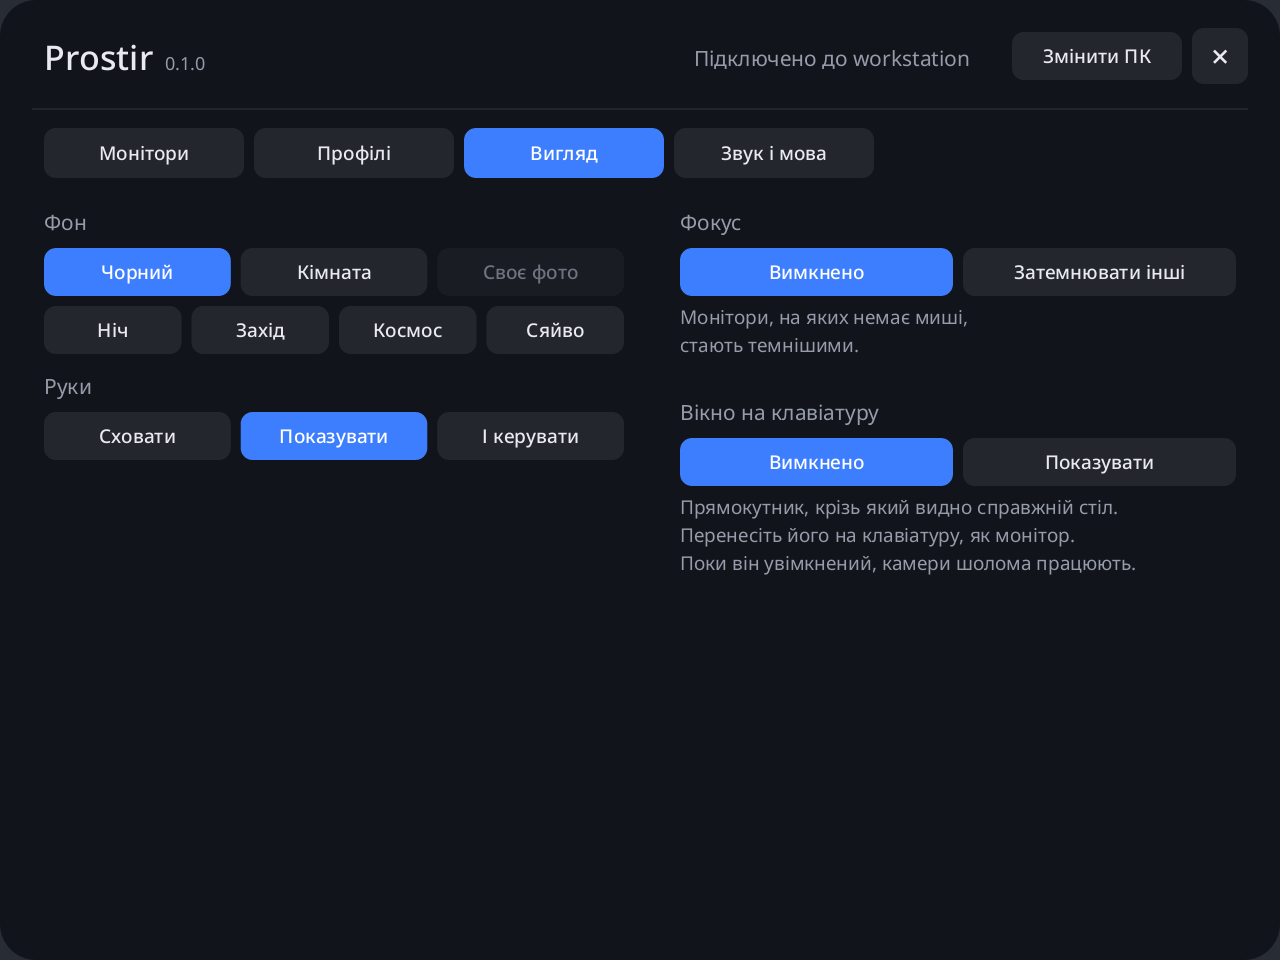
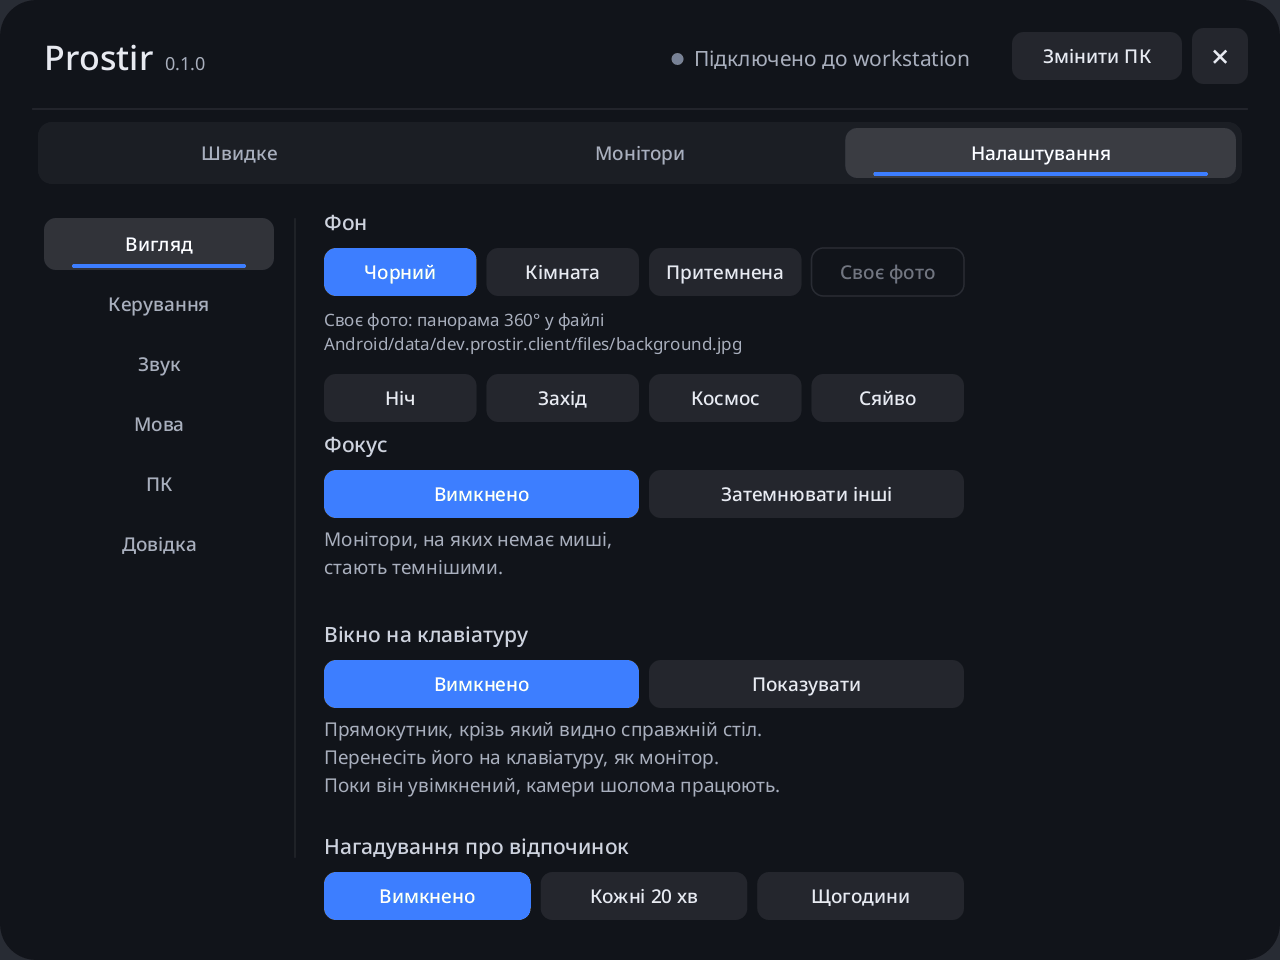
README: підключення кабелем, нове меню, відкріплені вікна, зап'ястя, миша, сповіщення
- окремий розділ «Connect with a USB cable»: режим розробника, adb,
  дозвіл налагодження, adb devices, як ПК сам робить adb reverse, що
  буває з unauthorized, --no-adb, зарядка під час роботи від кабелю
- «What it does»: відкріплені вікна, «вікно сюди», знімки, слідом за
  головою, миша за поглядом, меню на зап'ясті, сповіщення, нагадування
- керування: смужка під монітором, меню на зап'ясті, лівша
- меню описано за новою структурою (Швидке / Монітори / Налаштування з
  розділами); трей із зарядом шолома
- продуктивність: пам'ять ПК для HEVC і H.264 на Intel, простій, CPU
  шолома, 72 Hz; безпека: що саме йде зі сповіщеннями
- нові скріншоти меню англійською й українською

diff --git a/README.md b/README.md
@@ -51,12 +51,12 @@ hit one.
 
 <table>
   <tr>
-    <td><img src="docs/menu-monitors.png" alt="Menu, Monitors tab: monitor list, add a monitor, layout, curve and mode"></td>
-    <td><img src="docs/menu-profiles.png" alt="Menu, Profiles tab: Work, Cinema and Lying down"></td>
+    <td><img src="docs/menu-quick.png" alt="Menu, Quick tab: profiles and tiles for focus, cinema, PC sound, microphone, detaching a window and a screenshot"></td>
+    <td><img src="docs/menu-monitors.png" alt="Menu, Monitors tab: monitor list with where each stands, adding a monitor, layout, curve, mode and follow my head"></td>
   </tr>
   <tr>
-    <td><img src="docs/menu-look.png" alt="Menu, Look tab: background, hands and focus"></td>
-    <td><img src="docs/menu-sound.png" alt="Menu, Sound and language tab"></td>
+    <td><img src="docs/menu-look.png" alt="Menu, Settings, Look: background, focus, keyboard window and rest reminders"></td>
+    <td><img src="docs/menu-pc.png" alt="Menu, Settings, PC: video quality, encoder, codec, sharper text, notifications and paired PCs"></td>
   </tr>
 </table>
 
@@ -85,7 +85,7 @@ you close the lid.
 
 Profiles switch the whole setup at once. Out of the box there is "Work" (three 1440p
 monitors and the laptop screen), "Cinema" (one 4K screen, big and far away, the rest
-hidden) and "Lying down" (two monitors overhead). Save your own setup into any of them.
+hidden) and "Lying down" (two monitors overhead). Save your own setup into any of them (Monitors → Save as profile).
 Monitors that are the same size in both profiles stay, so their windows do not move.
 In cinema mode you pick which monitor becomes the big screen.
 
@@ -93,7 +93,7 @@ Focus mode dims every monitor except the one with the mouse.
 
 PC sound plays in the headset, and the headset microphone becomes the PC's microphone.
 The headset only records while some app on the PC is actually listening, and only
-while the microphone switch in the headset menu (Sound and language) is on. The PC can
+while the microphone switch in the headset menu (Quick, or Settings → Sound) is on. The PC can
 ask for the microphone, but the switch in the headset decides.
 
 When you take the headset off, the PC stops encoding right away. After 10 seconds it
@@ -106,6 +106,24 @@ keyboard) and, if you want, used for pointing: pinch to click, pinch and hold to
 With your hands in view, the menu opens within arm's reach and works like a
 touchscreen. A keyboard window can show your real desk through a rectangle you place
 over the keyboard, on any background.
+
+A single window can also leave the desktop: "Detach window" gives the PC's active
+window an output of its own, its size, and the headset shows it as a floating panel
+without a frame, closer to you than the monitors. Up to three, since the headset has
+only so many video decoders. Close the window and the panel goes. "Window here" moves
+the active window to the monitor in front of you, and a screenshot of that monitor
+lands in `~/Pictures/Prostir`.
+
+The arrangement can follow your head: turn or move away and, once you have clearly
+looked elsewhere, the monitors glide after you. On Hyprland the mouse can follow your
+gaze, jumping to the monitor you look at, and "Where is the mouse?" shows it with
+rings.
+
+Turn your left palm to your face and a small menu appears by the wrist: bring
+everything in front of you, focus, cinema, where is the mouse, screenshot, the main
+menu. The PC's notifications can show in the headset, and reminders can ask you to
+rest your eyes every 20 minutes or take a break every hour. All of these are off
+until you turn them on.
 
 The headset and the PC speak Ukrainian or English. The headset follows the PC's
 language unless you pick one in the menu.
@@ -135,7 +153,7 @@ has not been paired with.
   `x264enc` plugin from gst-plugins-ugly. See [NVIDIA and CPU encoding](#nvidia-and-cpu-encoding).
 - On KDE, `kscreen-doctor`, which comes with Plasma. Optional: `qdbus6` for matching
   wallpapers, `adb` for USB, and one of `kdialog`, `zenity`, `fuzzel`, `wofi` or `rofi`
-  for the pairing dialog.
+  for the pairing dialog. Screenshots use `spectacle` on KDE and `grim` on Hyprland.
 - On Hyprland, a bar with a tray (Waybar with the `tray` module) for the menu, and a
   notification daemon (mako, dunst, swaync) for messages. See [Hyprland](#hyprland).
 
@@ -276,51 +294,95 @@ headset to come back before the windows move back to the laptop.
 ### Wi-Fi or USB
 
 Wi-Fi works for everyone: the PC and the headset only need to be on the same network,
-and the network must let devices talk to each other. USB needs developer mode on the
-headset and `adb` on the PC. Prostir then runs `adb reverse` by itself when the
-headset is plugged in (`--no-adb` turns that off). A cable helps on networks that
-isolate clients and keeps the Wi-Fi free. Installs from the Meta Horizon Store, once
-Prostir is there, will use Wi-Fi only.
+and the network must let devices talk to each other. A USB cable is the other way. It
+helps on networks that keep devices apart (hotels, offices, some mesh routers), keeps
+the Wi-Fi free and gives the steadiest picture. It needs developer mode on the headset
+and `adb` on the PC. Installs from the Meta Horizon Store, once Prostir is there, will
+use Wi-Fi only.
+
+### Connect with a USB cable
+
+1. Turn on developer mode for the headset: in the Meta Horizon app on your phone, open
+   Devices → your headset → Headset settings → Developer mode.
+2. Install `adb` on the PC: `sudo pacman -S android-tools` (Arch),
+   `sudo apt install adb` (Debian, Ubuntu) or `sudo dnf install android-tools`
+   (Fedora).
+3. Connect the headset to the PC with a USB-C cable that carries data (not a
+   charge-only one). A USB 3 port is best; USB 2 is enough for three monitors at the
+   normal quality.
+4. Put the headset on. It asks "Allow USB debugging?": tick "Always allow from this
+   computer" and allow.
+5. Check that `adb devices` lists the headset as `device`. If it says `unauthorized`,
+   unplug, plug in again and answer the question in the headset.
+6. Start Prostir on the PC (or leave it running). Every few seconds it looks for
+   headsets on USB and runs `adb reverse tcp:47830 tcp:47830` for each, so the headset
+   reaches the PC at 127.0.0.1.
+7. Open Prostir in the headset. It tries the cable before Wi-Fi, and the menu says
+   "Connected to PC (USB)". Pairing is the same as over Wi-Fi, once per PC.
+
+Unplug the cable and the headset goes back to Wi-Fi by itself. `prostir --no-adb`
+stops the PC from touching `adb`. A laptop port usually charges the headset slower
+than it drains while you work, so for long sessions keep it charged beforehand or use
+a powered hub.
 
 ### Controls
 
-| | Controller | Hands (menu → Look → Hands → Show and use) |
+| | Controller | Hands (menu → Settings → Controls → Hands → Show and use) |
 |---|---|---|
-| Open the menu | ☰ or X on the left controller, or the round ☰ button under the main monitor | pinch the ☰ button |
+| Open the menu | ☰ or X on the left controller, or the round ☰ button under the main monitor | the system menu gesture (pinch with the left palm towards you), or "Menu" on the wrist menu |
+| Wrist menu | | turn the left palm to your face; press with the right index finger |
 | Press a button in the menu | trigger | touch it with a finger, or pinch from afar |
-| Move the menu | hold grip and point | touch an empty spot with a finger and drag |
 | Click on a monitor | trigger | pinch |
-| Move a monitor or the menu | hold grip and point | pinch and hold for about 0.3 s |
+| Move a monitor | point at it, then press the trigger on the bar that appears under it, or hold grip anywhere on it | pinch the bar under it, or pinch and hold anywhere on it for about 0.3 s |
+| Move the menu | hold grip and point | touch an empty spot with a finger and drag |
 | Nearer or farther | thumbstick up or down while holding | move your hand away or closer |
 | Bigger or smaller | thumbstick left or right while holding, or hold it with both controllers and move them apart or together | hold it with both hands and move them apart or together |
 | Line the monitors up | A | menu → Monitors → Layout |
-| Bring everything in front of you | menu → Monitors → Bring everything in front of me | same |
+| Bring everything in front of you | menu → Quick → In front of me | same, or the wrist menu |
 
-With hands in view, the menu opens within arm's reach so you can touch it. A dot shows
-where your finger is; pull the finger back to press the next button.
+With hands in view, the menu opens within arm's reach so you can touch it. A light
+shows where your finger is about to touch; pull the finger back to press the next
+button. Left-handed? Settings → Controls → Wrist menu → Right wrist puts the wrist menu
+on the right hand, pressed with the left.
 
 ### Menu
 
+**Quick** opens first: the three profiles (Work, Cinema, Lying down) and big tiles for
+what you switch every day. In front of me, focus, cinema, the keyboard window, PC
+sound, microphone, detach window, window here and screenshot. What is on is lit.
+
 **Monitors.** Add a monitor (1920×1080, 2560×1440, 3840×2160, 3440×1440 or
 1440×2560), remove one, make one primary, move it left or right in the row, and show
-or hide the laptop screen. Below that: layout, curve, and the desk or cinema mode.
+or hide the laptop screen. Each one is labelled with where it stands (left, middle,
+right, above, below). Detached windows are listed too, with a button to close them.
+Then the layout (around me, wall, lying down), the curve, desk or cinema mode, follow
+my head, the cinema screen, and "Save as profile".
 
-**Profiles.** Switch to a profile, or save the current setup into it.
+**Settings**, in parts:
 
-**Look.** Background, hands and focus mode. For your own background, copy an
-equirectangular `background.jpg` or `background.png` to
-`/sdcard/Android/data/dev.prostir.client/files/` on the headset.
-
-**Sound, language.** Where PC sound plays, which microphone the PC uses, and the
-interface language.
+- **Look**: background (black, the room, the room dimmed, a panorama or your own
+  photo), focus mode, the keyboard window, rest reminders. For your own background,
+  copy an equirectangular `background.jpg` or `background.png` to
+  `/sdcard/Android/data/dev.prostir.client/files/` on the headset.
+- **Controls**: hands, mouse follows the gaze (where the PC allows it), menu size,
+  which wrist has the wrist menu, and the headset display rate (90 Hz, or 72 Hz to
+  save battery: the video is 60 frames a second either way).
+- **Sound**: where PC sound plays and which microphone the PC uses.
+- **Language**: like the PC, Ukrainian or English.
+- **PC**: video quality (15, 30 or 50 Mbit/s per monitor), encoding on the graphics
+  card or the processor, HEVC or H.264, sharper text, the PC's notifications in the
+  headset, and the PCs this headset is paired with, each of which you can forget.
+  The PC applies quality and sharper text at once; another codec restarts the encoders
+  in a second, and the monitors and windows stay. The PC remembers these choices.
+- **Help**: the controls, the version, and the first-run tips again.
 
 ### Tray on the PC
 
-The tray shows whether the headset is connected and how many monitors there are. From
-it you can set the video quality (15, 30 or 50 Mbit/s per monitor, applied right away),
-turn on sharper text (a slower encoder preset: clearer small text at the same bitrate
-for about 2 ms more per frame), start Prostir with the session (KDE), turn the usage
-counter on or off, forget paired headsets, and quit.
+The tray shows whether the headset is connected, how many monitors there are and the
+headset's battery; when it drops to 15 % the PC shows a notification. From the tray
+you can bring the monitors in front of you, set the video quality and sharper text
+(the same settings as in the headset menu), start Prostir with the session (KDE), turn
+the usage counter on or off, forget paired headsets, and quit.
 
 ### Command line
 
@@ -330,7 +392,8 @@ prostir [--monitor WxH[@scale]]... [--codec h265|h264] [--bitrate MBPS] [--softw
 ```
 
 Without `--monitor`, Prostir brings back the monitors from the last session. They are
-stored in `~/.config/prostir/monitors.txt`.
+stored in `~/.config/prostir/monitors.txt`, together with the choices from the headset
+menu's PC settings. `--codec` and `--software` on the command line win over those.
 
 ## Update and uninstall
 
@@ -371,17 +434,20 @@ connection; when the two are too far apart, the headset says which side to updat
 
 ## Performance and battery
 
-Numbers from my laptop with three 2560×1440 monitors and the laptop screen in the
-headset:
+Numbers from my laptop (Intel graphics) with three 2560×1440 monitors and the laptop
+screen in the headset:
 
-- The PC uses about 2 % of one CPU core and 250 MB of RAM. The GPU's video engine does
-  the encoding, and only when a screen changes. CPU encoding (x264) uses much more.
+- The PC uses about 2 % of one CPU core. Memory depends on the codec, because Intel's
+  driver reserves a lot for each HEVC encoder: about 340 MB with HEVC, about 120 MB with
+  H.264 (Settings → PC → Codec). Waiting for the headset, Prostir takes about 16 MB,
+  and it returns the memory after a session. CPU encoding (x264) uses much more CPU.
 - On the network, each monitor uses up to the chosen bitrate while its picture changes
   and almost nothing while it is still. Sound adds 1.5 Mbit/s.
-- On the headset, every monitor needs one hardware decoder (idle while the picture is
-  still) and one compositor layer per frame. Fewer or smaller monitors, the black
-  background and hidden hands save the most battery. The room background keeps the
-  passthrough cameras on.
+- On the headset, the app itself uses about 40 % of one CPU core while streaming
+  (decryption runs on the ARMv8 crypto instructions). Every monitor needs one hardware
+  decoder (idle while the picture is still) and one compositor layer per frame.
+  Fewer or smaller monitors, the black background, hidden hands and the 72 Hz display
+  rate save the most battery. The room backgrounds keep the passthrough cameras on.
 
 ## Security
 
@@ -396,10 +462,16 @@ man in the middle. After failed attempts the PC waits longer and longer before i
 accepts the next one, so the code cannot be guessed by trying.
 
 The PC keeps the keys of paired headsets in `~/.config/prostir/paired_headsets`; the
-tray item "Forget paired headsets" clears it. The headset keeps its keys inside the app.
+tray item "Forget paired headsets" clears it. The headset keeps its keys inside the app
+and lists the paired PCs in Settings → PC, where you can forget any of them.
 
 The headset sends microphone sound only while its own microphone switch is on (menu,
-Sound and language). The PC can ask for the microphone, but cannot turn the switch on.
+Quick or Settings → Sound). The PC can ask for the microphone, but cannot turn the switch on.
+
+With "PC notifications in the headset" on, the PC reads the notifications other apps
+send on the session bus and passes their app name, title and text to the headset over
+the same encrypted connection. It stops reading them when you turn it off or the
+headset disconnects.
 
 Official builds count how many PCs use Prostir: once a day, when a headset connects,
 the PC sends one request to GoatCounter with only the date in it (and `/install` the
